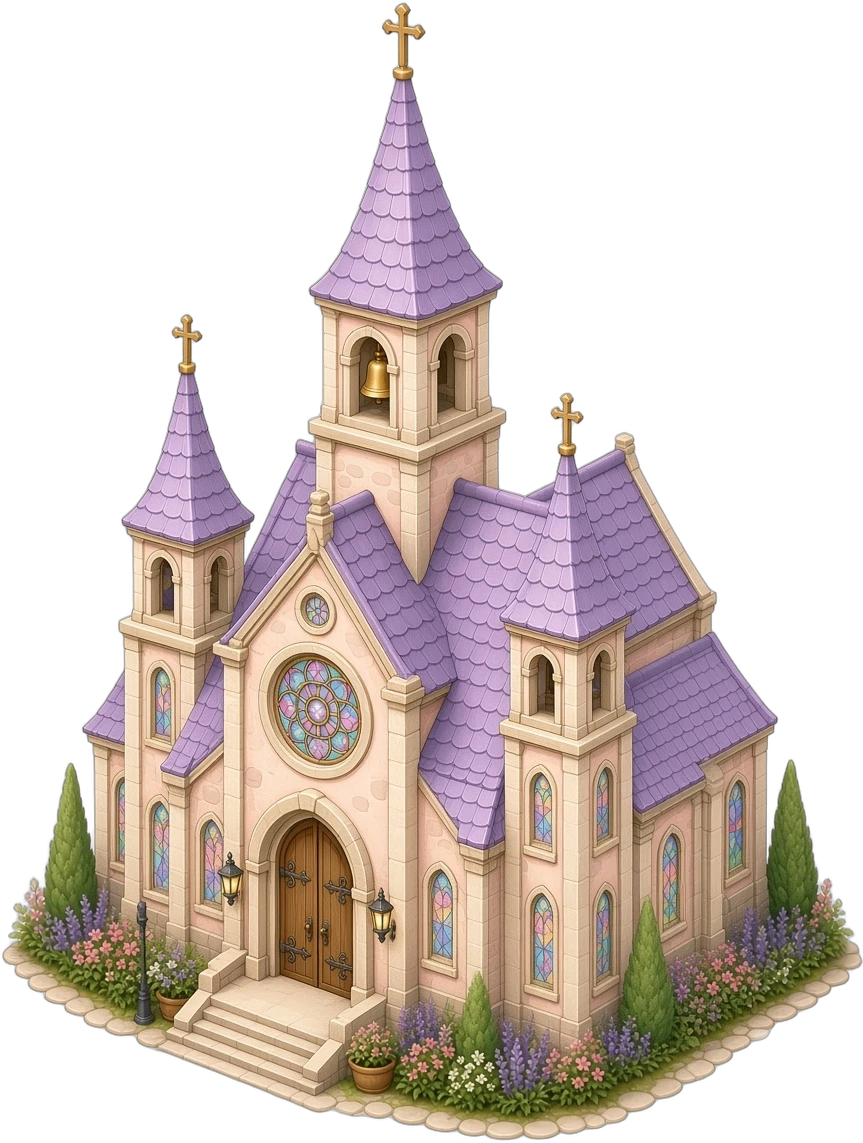
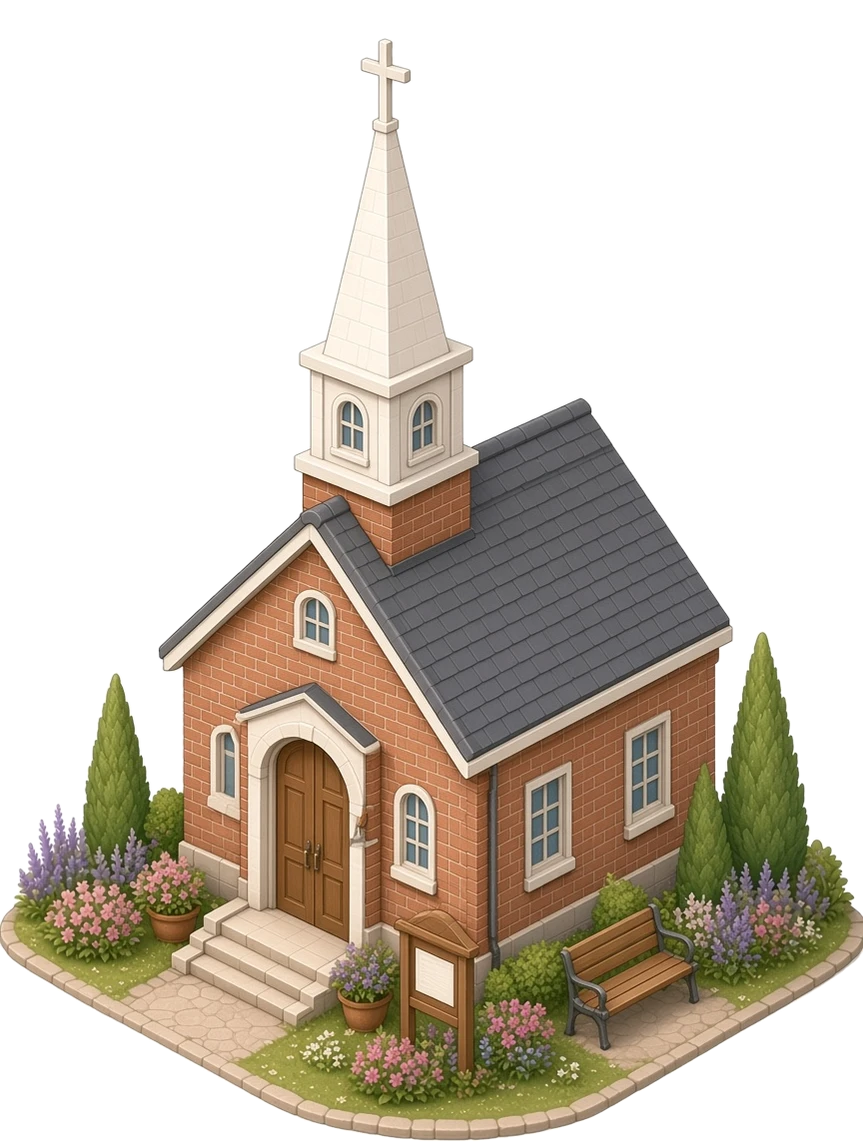
Protestant church exterior art and level titles

diff --git a/MORNING_REPORT.md b/MORNING_REPORT.md
@@ -1,0 +1,10 @@
+# Morning report (2026-10-30 KST)
+
+## Done
+- Security: RLS audit, grant hardening migration, two-anon test, advisor clean (search_path). Google provider live (authorize 302 -> accounts.google.com). QA chat rows (room qa_rls, 2 rows) deleted. Anonymous test users NOT deleted: 5 anon users exist from 16:59-17:00 KST and the test ones can't be told apart safely from real guests.
+- Character rig: qa_rig 618 combos / 17,156 frames, maxDrift 0 px, missing 0; skin-through cleanup re-run 0 px. Commit 9af1200.
+- Settings character reset (appearance-only / typed full reset, linked-account sync): tools/test_reset.py 12/12, 0 errors. Commit 1c9d181, deploy maeul-chapel-25d-2b25goayl.
+- Protestant exterior: 5 new level arts (brick + white steeple + plain/red cross, no rose windows), level names 동네 작은 교회 / 함께 자라는 교회 / 교육관이 있는 교회 / 카페가 있는 교회 / 온 동네의 교회. Old art in assets/v7/catholic_bak/. Screens: shots/prot_world_l1.png, shots/prot_levels.png (before: shots/ui/reset_3_confirm.png background).
+
+## Remaining
+- Protestant interior, icon set, place switcher, CHURCH_RESEARCH.md + WORSHIP_DESIGN.md + 100-person worship mode, UX_AUDIT.md strict pass.
